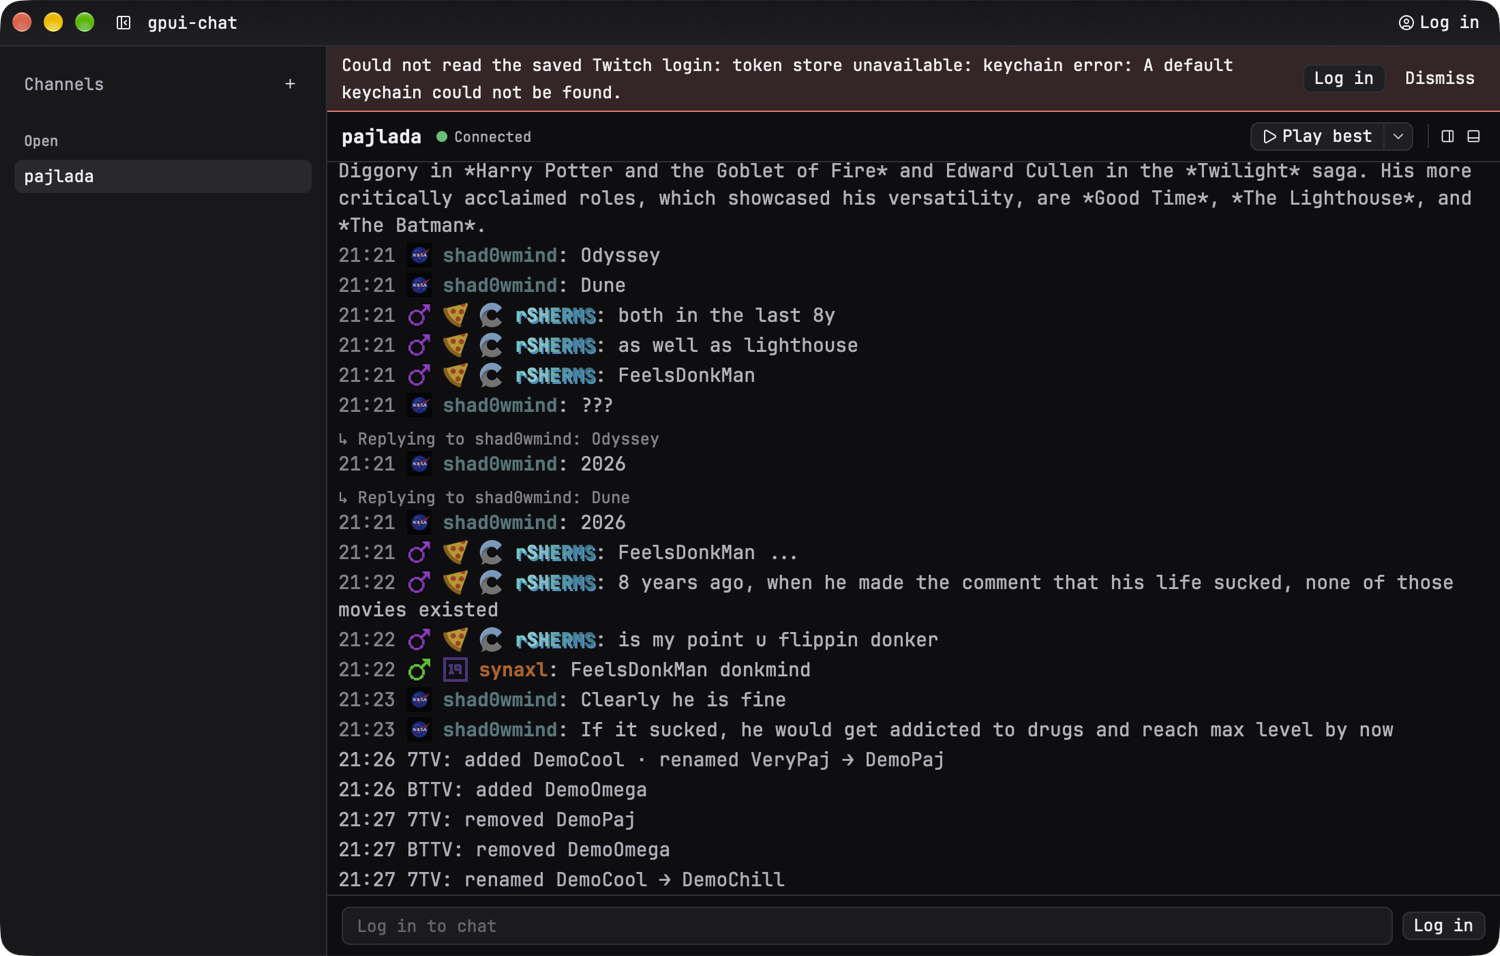
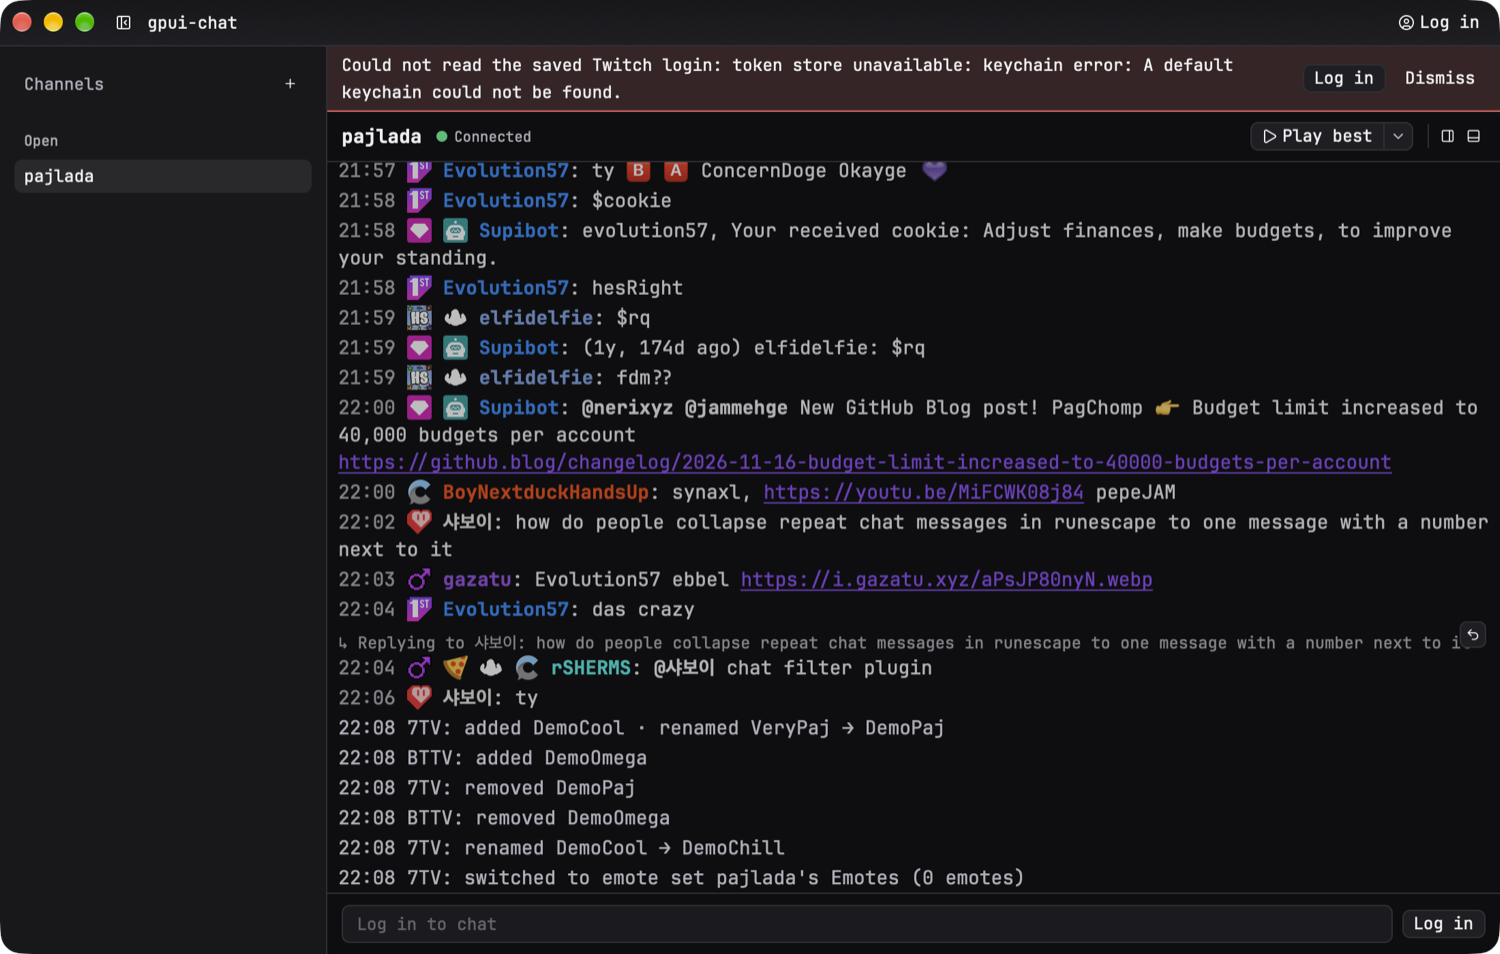
PR 6.2: live_replay can switch the set; real-path HUD captures; new live screenshot

Changed region(s): [[0.2147, 0.152, 0.9813, 0.9423], [0.9507, 0.5168, 0.9813, 0.5776], [0.9507, 0.608, 0.9813, 0.6384]]

diff --git a/crates/emotes/examples/live_replay.rs b/crates/emotes/examples/live_replay.rs
@@ -9,8 +9,8 @@
 //!
 //! Each script line is `{"at_ms": 4000, "to": "7tv" | "bttv", "frame": {...}}`: `frame` is sent
 //! `at_ms` after the app's *first subscription* to that socket. In 7TV frames the string `$SET` is
-//! replaced by the emote set id the app subscribed to, in BTTV frames `$ROOM` by the room id it
-//! joined. The 7TV server says `Hello` as the real one does. Ctrl-C stops it.
+//! replaced by the emote set id the app subscribed to and `$USER` by the 7TV user id it listens
+//! to for set switches, in BTTV frames `$ROOM` by the room id it joined. The 7TV server says `Hello` as the real one does. Ctrl-C stops it.
 
 use std::time::Duration;
 
@@ -73,6 +73,7 @@ async fn serve(
                 let _ = write.send(Message::text(hello)).await;
             }
             let mut started = false;
+            let user = std::sync::Arc::new(std::sync::Mutex::new(String::new()));
             let (tx, mut rx) = tokio::sync::mpsc::unbounded_channel::<String>();
             loop {
                 tokio::select! {
@@ -82,6 +83,11 @@ async fn serve(
                         };
                         println!("[{name}] <- {text}");
                         let Ok(frame) = serde_json::from_str::<Value>(text.as_str()) else { continue };
+                        if name == "7tv" && frame["d"]["type"] == "user.update" {
+                            if let Some(id) = frame["d"]["condition"]["object_id"].as_str() {
+                                *user.lock().unwrap() = id.to_owned();
+                            }
+                        }
                         // The first subscription starts the script.
                         let id = if name == "7tv" {
                             (frame["op"] == 35 && frame["d"]["type"] == "emote_set.update")
@@ -97,8 +103,10 @@ async fn serve(
                             for step in steps.iter().filter(|s| s.to == name) {
                                 let (tx, at) = (tx.clone(), step.at);
                                 let frame = step.frame.replace("$SET", &id).replace("$ROOM", &id);
+                                let user = user.clone();
                                 tokio::spawn(async move {
                                     tokio::time::sleep(at).await;
+                                    let frame = frame.replace("$USER", &user.lock().unwrap());
                                     let _ = tx.send(frame);
                                 });
                             }
